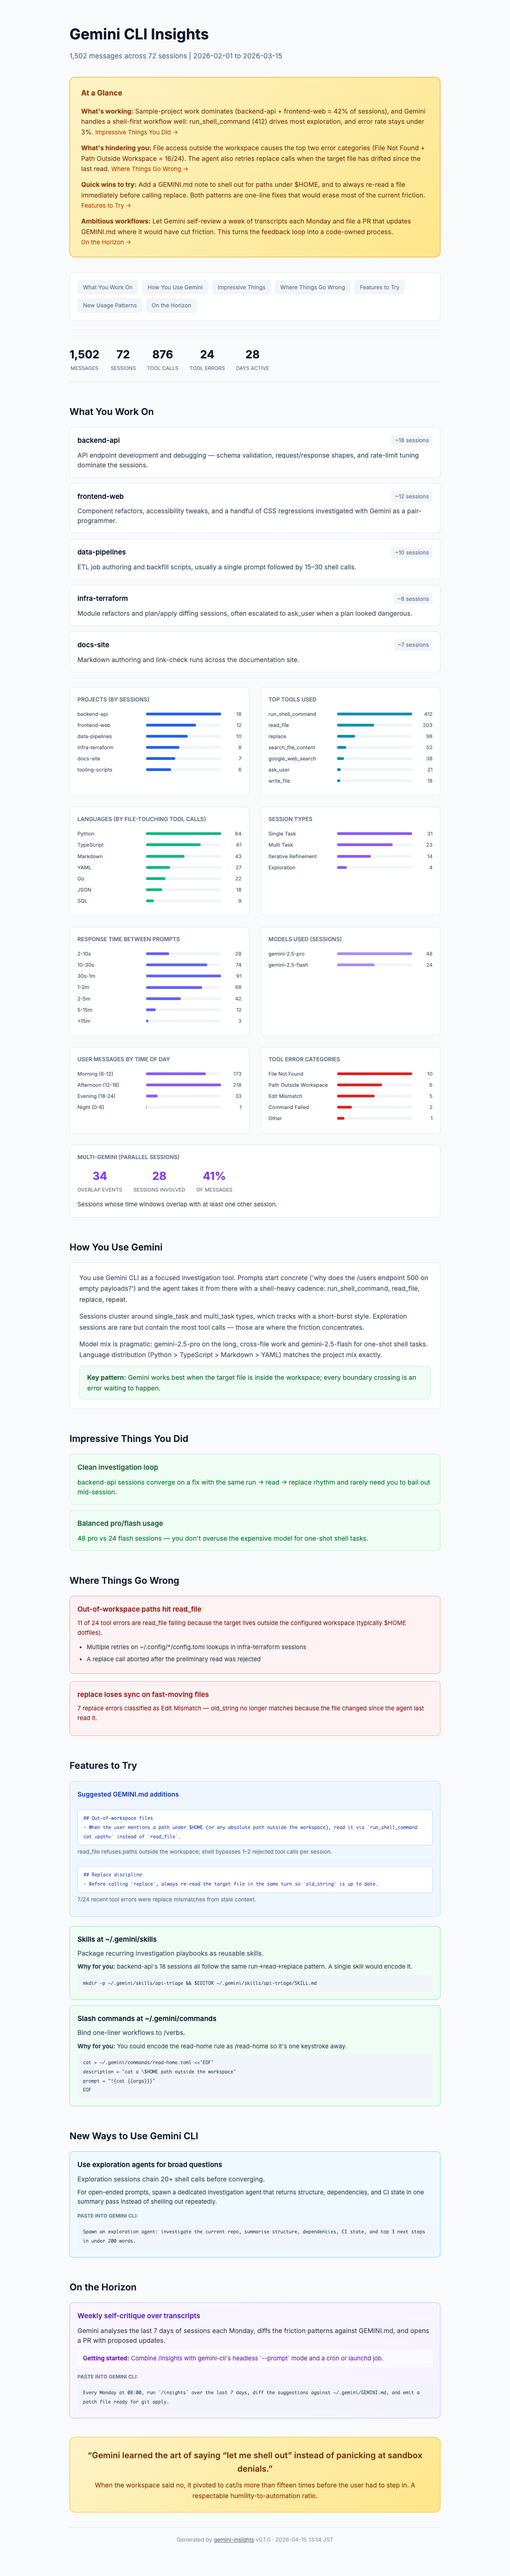
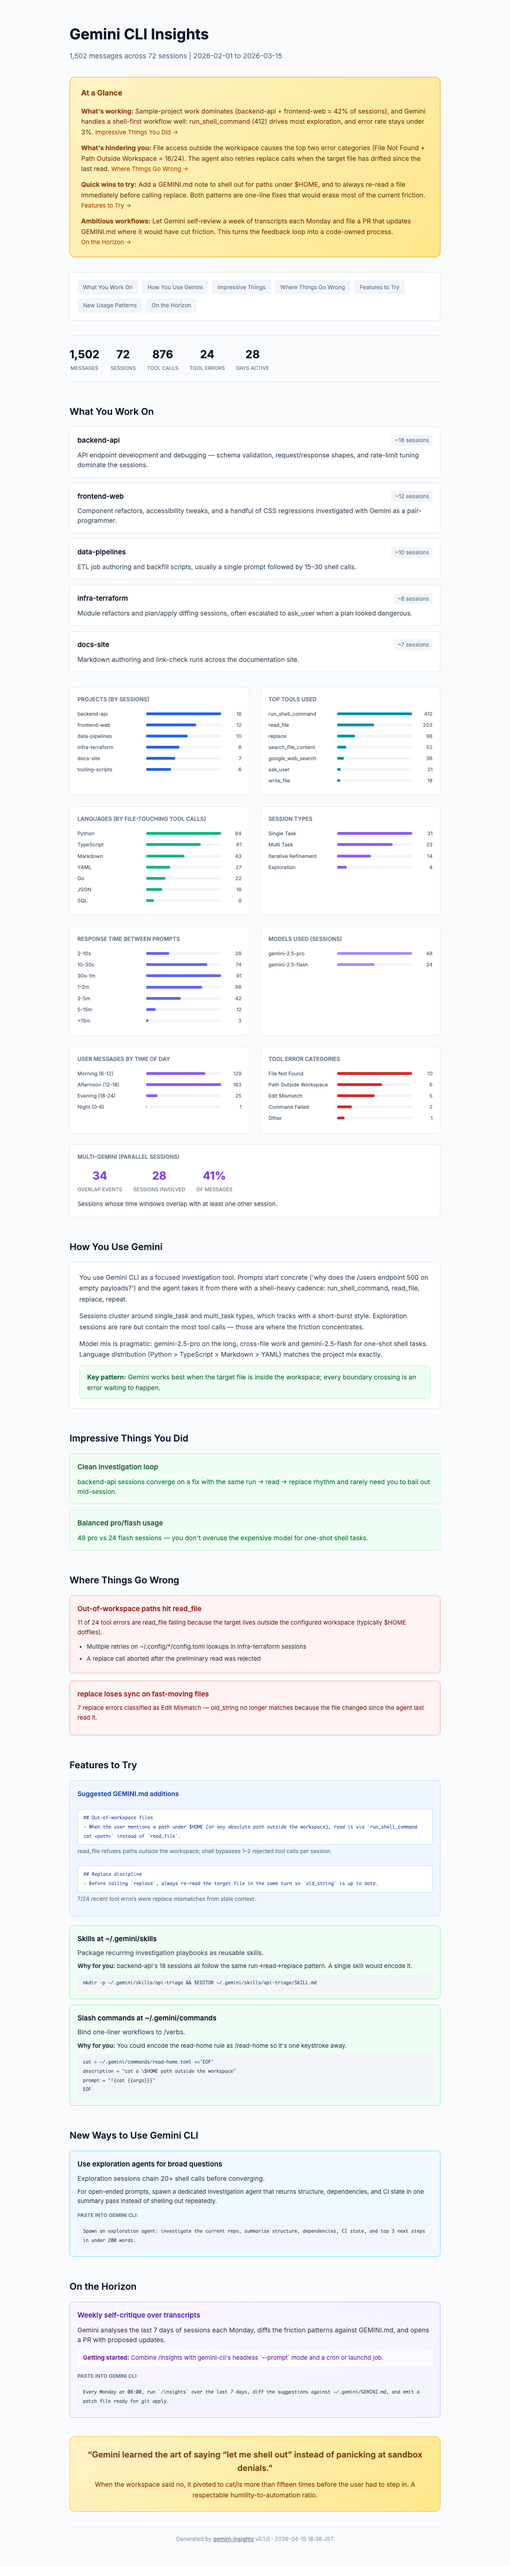
fix: review-loop findings (PII guard DRY, demo arithmetic, cmd_demo tests) (#2)
From a focused 3-reviewer pass over the initial state:

- demo.py: extract FORBIDDEN_DEMO_TOKENS as the single source of truth,
  extend it with Pepabo brand names (muumuu/minne/suzuri/colorme/goope/
  booth/kouin/stores.jp/tech.pepabo.com/git.pepabo.com/atanit) and the
  previously-leaked project codenames. CI and tests/test_render.py now
  both consume this list so they cannot drift.
- demo.py: fix arithmetic so totals reconcile with per_project (add a
  catch-all "misc-sandboxes" 7th row) and hour_histogram (rescale to
  sum to totals.user_messages = 318). Real aggregate_to_jsonable
  always produces consistent numbers, so the screenshot should too.
- .gitignore: add .ruff_cache/ and .agents/ so scratch output isn't
  accidentally committed.
- tests/test_render.py: add test_demo_data_totals_reconcile to guard
  against arithmetic regressions in the demo data.
- tests/test_cli.py (new): drive `main(['demo', ...])` end-to-end and
  check `report` fails cleanly on a missing --gemini-dir — previously
  cmd_demo had zero pytest coverage.
- docs/screenshot.png: regenerated from the new demo data (numbers
  shifted, no PII).

Skipped (from the review): smart-quote "double wrap" concern (verified
to be nested quotes, not a bug); automatic CI screenshot regeneration
(separate scope).

diff --git a/gemini_insights/demo.py b/gemini_insights/demo.py
@@ -10,6 +10,40 @@ All project names, session IDs, and narrative text below are invented.
 
 from __future__ import annotations
 
+# Single source of truth for the demo PII guard. Both the unit test and the
+# CI workflow check that the rendered demo HTML contains none of these
+# tokens — real project / service / customer / user names that must never
+# leak via the shipped demo or screenshot.
+#
+# Keep the list in lowercase; both consumers match case-insensitively.
+FORBIDDEN_DEMO_TOKENS: tuple[str, ...] = (
+    # personal / host identifiers that have leaked before
+    "lolipop",
+    "heteml",
+    "hetemail",
+    "pepabo",
+    "taniwaki",
+    "atanit",
+    "tech.pepabo.com",
+    "git.pepabo.com",
+    # past project/service codenames from the author's real ~/.gemini/
+    "tsudanuma",
+    "archives-server",
+    "qrunner",
+    "puppetserver",
+    "customer-reliability",
+    # Pepabo brand names — defence-in-depth against future leaks
+    "muumuu",
+    "minne",
+    "suzuri",
+    "colorme",
+    "color-me",
+    "goope",
+    "booth",
+    "kouin",
+    "stores.jp",
+)
+
 DEMO_STATS: dict = {
     "totals": {
         "sessions": 72,
@@ -110,6 +144,18 @@ DEMO_STATS: dict = {
             "errors": 2,
             "last_activity": "2026-03-05T13:25:00+00:00",
         },
+        # Catch-all "misc" row so per-project totals reconcile with the
+        # top-level `totals` block. `aggregate_to_jsonable` emits every
+        # project it saw, so the two always sum exactly in real output.
+        {
+            "name": "misc-sandboxes",
+            "sessions": 11,
+            "user_messages": 34,
+            "gemini_messages": 116,
+            "tool_calls": 116,
+            "errors": 1,
+            "last_activity": "2026-02-28T10:15:00+00:00",
+        },
     ],
     "long_sessions": [],
     "response_time_buckets": {
@@ -122,6 +168,9 @@ DEMO_STATS: dict = {
         ">15m": 3,
     },
     "overlap": {"overlap_events": 34, "sessions_involved": 28, "pct_messages": 41},
+    # Hand-tuned so the 24 per-hour values sum to totals.user_messages (318).
+    # `compute_hour_histogram` in collect.py counts exactly one entry per user
+    # message, so sums must match in real data.
     "hour_histogram": {
         "0": 1,
         "1": 0,
@@ -129,23 +178,23 @@ DEMO_STATS: dict = {
         "3": 0,
         "4": 0,
         "5": 0,
-        "6": 4,
-        "7": 12,
-        "8": 21,
-        "9": 38,
-        "10": 52,
-        "11": 46,
-        "12": 18,
-        "13": 41,
-        "14": 48,
-        "15": 44,
-        "16": 39,
-        "17": 28,
-        "18": 14,
-        "19": 8,
-        "20": 5,
-        "21": 3,
-        "22": 2,
+        "6": 3,
+        "7": 9,
+        "8": 16,
+        "9": 28,
+        "10": 39,
+        "11": 34,
+        "12": 14,
+        "13": 30,
+        "14": 36,
+        "15": 33,
+        "16": 29,
+        "17": 21,
+        "18": 11,
+        "19": 6,
+        "20": 4,
+        "21": 2,
+        "22": 1,
         "23": 1,
     },
 }

diff --git a/tests/test_render.py b/tests/test_render.py
@@ -6,7 +6,7 @@ import json
 import re
 
 from gemini_insights.collect import aggregate, aggregate_to_jsonable, collect_sessions
-from gemini_insights.demo import DEMO_INSIGHTS, DEMO_STATS
+from gemini_insights.demo import DEMO_INSIGHTS, DEMO_STATS, FORBIDDEN_DEMO_TOKENS
 from gemini_insights.render import render
 
 
@@ -83,11 +83,28 @@ def test_render_tolerates_non_numeric_session_count(fake_gemini_dir):
 
 def test_demo_output_has_no_placeholder_pii_tokens():
     """The built-in demo data ships with the repo; ensure it doesn't contain
-    tokens we explicitly want to keep out of the published screenshot."""
+    tokens we explicitly want to keep out of the published screenshot.
+
+    Both this test and the CI `demo-pii-guard` job consume the same
+    `FORBIDDEN_DEMO_TOKENS` list from `gemini_insights.demo`, so they can't
+    drift apart.
+    """
     html = render(DEMO_STATS, DEMO_INSIGHTS)
-    forbidden = re.compile(
-        r"\b(lolipop|heteml|hetemail|pepabo|taniwaki|tsudanuma|archives-server|qrunner|puppetserver|customer-reliability)\b",
-        re.IGNORECASE,
-    )
+    # Build one alternation regex; tokens are lowercased so match is i-case.
+    pattern = r"(?:" + "|".join(re.escape(t) for t in FORBIDDEN_DEMO_TOKENS) + r")"
+    forbidden = re.compile(pattern, re.IGNORECASE)
     match = forbidden.search(html)
     assert match is None, f"demo HTML contains forbidden token: {match.group(0)}"
+
+
+def test_demo_data_totals_reconcile():
+    """Synthetic demo numbers should be internally consistent so the
+    README screenshot doesn't display a paradox."""
+    totals = DEMO_STATS["totals"]
+    per_project = DEMO_STATS["per_project"]
+    assert sum(p["sessions"] for p in per_project) == totals["sessions"]
+    assert sum(p["user_messages"] for p in per_project) == totals["user_messages"]
+    assert sum(p["gemini_messages"] for p in per_project) == totals["gemini_messages"]
+    assert sum(p["tool_calls"] for p in per_project) == totals["tool_calls"]
+    hist_sum = sum(int(v) for v in DEMO_STATS["hour_histogram"].values())
+    assert hist_sum == totals["user_messages"]

diff --git a/tests/test_cli.py b/tests/test_cli.py
@@ -1,0 +1,29 @@
+"""Tests for gemini_insights.cli entry points."""
+
+from __future__ import annotations
+
+from pathlib import Path
+
+from gemini_insights.cli import main
+
+
+def test_demo_writes_valid_html(tmp_path: Path) -> None:
+    out = tmp_path / "demo.html"
+    rc = main(["demo", "--output", str(out), "--no-open"])
+    assert rc == 0
+    assert out.exists()
+    html = out.read_text(encoding="utf-8")
+    assert "<!doctype html>" in html
+    assert "Gemini CLI Insights" in html
+    # Sanity: the demo narrative should be present, not a placeholder.
+    assert "At a Glance" in html
+    assert "backend-api" in html
+    assert "(fill via /insights)" not in html
+
+
+def test_report_fails_cleanly_on_missing_gemini_dir(tmp_path: Path, capsys) -> None:
+    nowhere = tmp_path / "nope"
+    rc = main(["report", "--gemini-dir", str(nowhere), "--no-open"])
+    assert rc == 1
+    err = capsys.readouterr().err
+    assert "Gemini directory not found" in err
